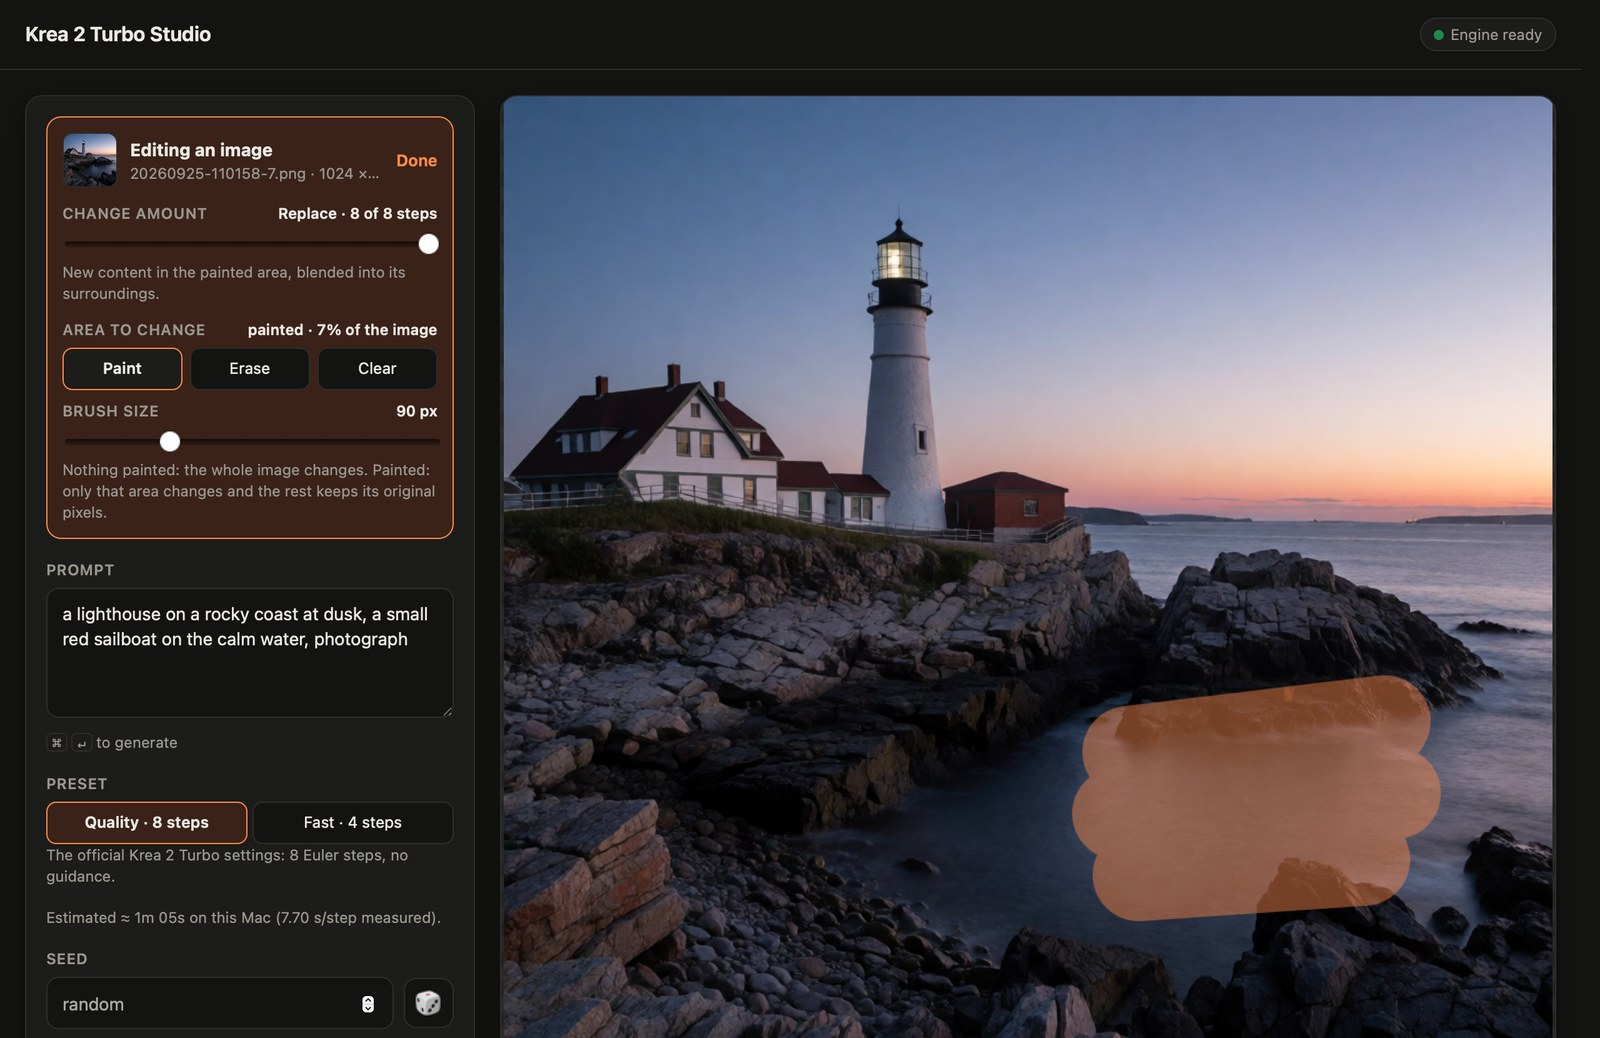
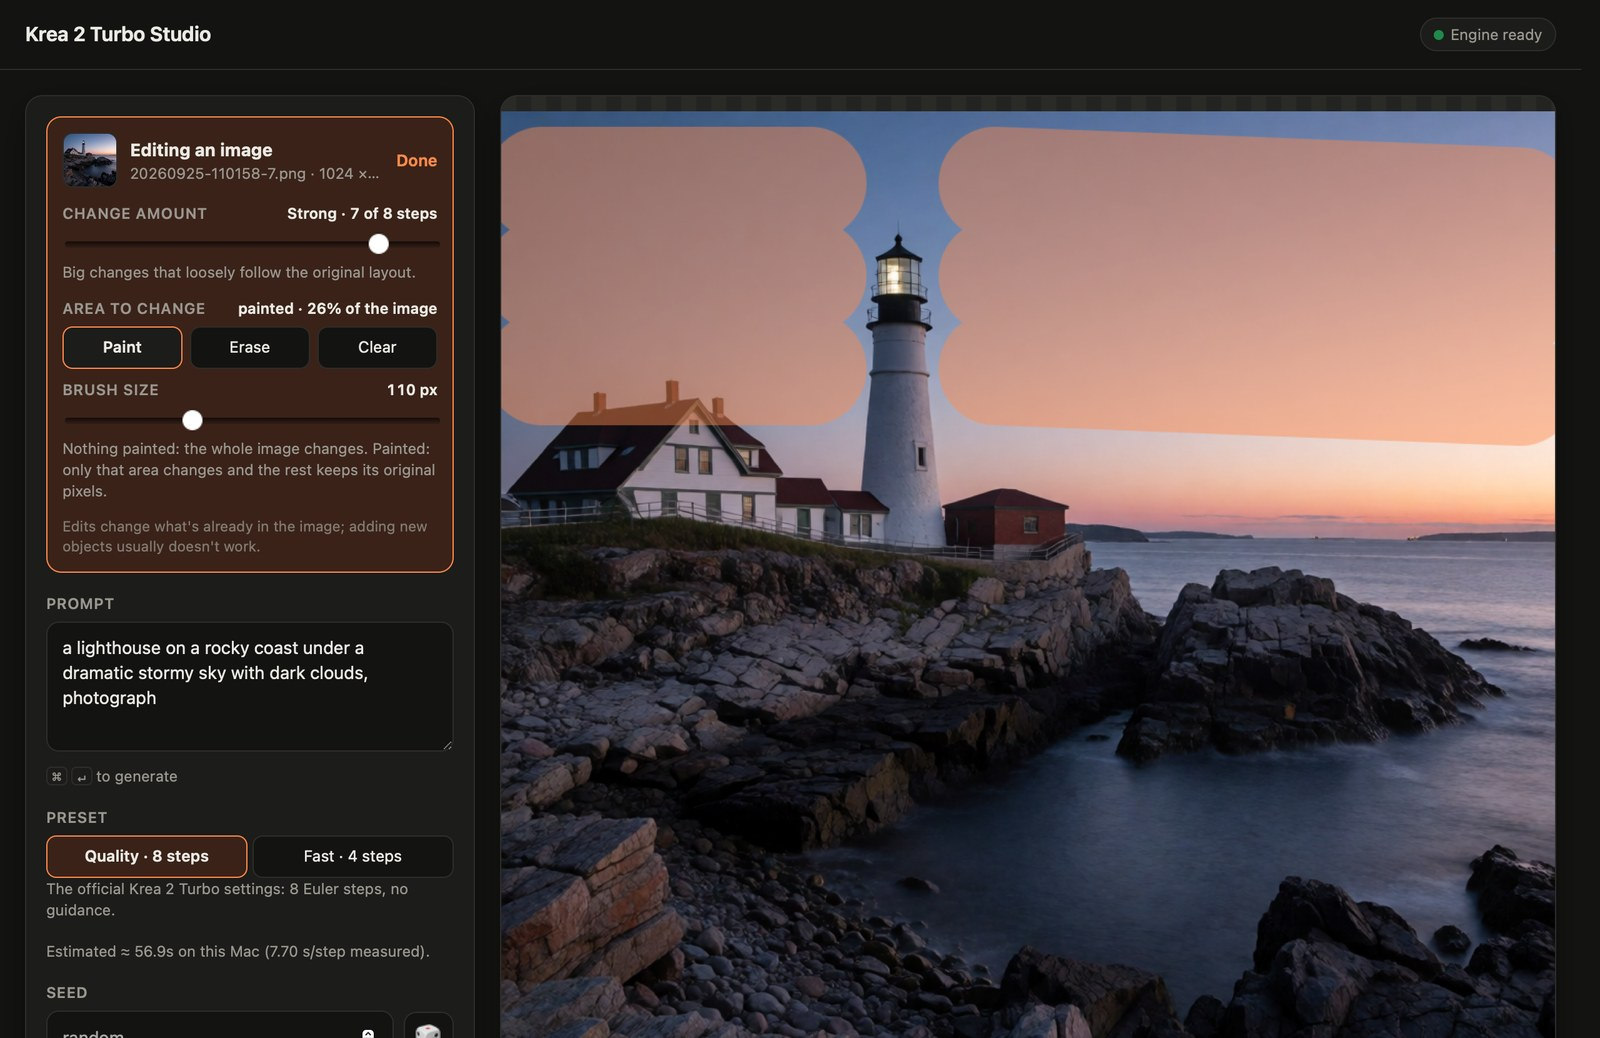
License (Krea 2 Community License, as Krea 2 Turbo); editing notes; clone URL
- LICENSE.md: this project uses the Krea 2 Community License Agreement, the same license as Krea 2 Turbo, with
  links to Krea's official text and Acceptable Use Policy.
- Edit panel: a subtle note that edits change what's already in the image and adding new objects usually doesn't
  work; the Replace hint no longer promises "new content". README says the same, and its editing screenshot
  now shows a sky repaint instead of adding a boat.
- README: clone from https://github.com/shinoss/krea_image.

diff --git a/ui/static/index.html b/ui/static/index.html
@@ -69,6 +69,7 @@ input[type=range] { width: 100%; accent-color: var(--accent); }
 .secondary { padding: 12px 16px; border: 1px solid var(--line); border-radius: 11px; background: var(--bg); color: var(--ink);
   font: inherit; cursor: pointer; }
 .hint { color: var(--muted); font-size: 12px; }
+.hint.subtle { font-size: 11.5px; opacity: .75; }
 .prep { opacity: 0; visibility: hidden; transition: opacity .3s, visibility .3s; }
 .prep.show { opacity: 1; visibility: visible; }
 details summary { cursor: pointer; font-size: 12px; font-weight: 600; color: var(--muted); text-transform: uppercase; letter-spacing: .04em; }
@@ -180,6 +181,7 @@ kbd { font: 11px ui-monospace, SFMono-Regular, Menlo, monospace; border: 1px sol
         <input type="range" id="brush" min="8" max="320" step="4">
         <div class="hint">Nothing painted: the whole image changes. Painted: only that area changes and the rest keeps its original pixels.</div>
       </div>
+      <div class="hint subtle">Edits change what's already in the image; adding new objects usually doesn't work.</div>
     </div>
 
     <div>
@@ -561,7 +563,7 @@ function renderAmount() {
   a.max = maskDirty ? n : n - 1;  // starting from pure noise only makes sense inside a painted area
   a.value = Math.min(Math.max(+a.value || 1, 1), +a.max);
   const k = startStep(), sg = sigmas(n)[k];
-  const [label, hint] = sg >= 0.999 ? ["Replace", "New content in the painted area, blended into its surroundings."]
+  const [label, hint] = sg >= 0.999 ? ["Replace", "Repaints the painted area from scratch, blended into its surroundings."]
     : sg < 0.4 ? ["Touch-up", "Refines details and texture; composition and colors stay."]
     : sg < 0.6 ? ["Light", "Keeps the composition and colors; changes details."]
     : sg < 0.8 ? ["Medium", "Keeps the layout; can change style, lighting and content."]

diff --git a/README.md b/README.md
@@ -71,6 +71,8 @@ Krea 2 has no instruction-based editing mode (it was released as a text-to-image
 re-imagining the image with your prompt, which is the image-to-image and inpainting approach every diffusion model
 supports.
 
+<sub>Edits change what's already in the image; adding new objects usually doesn't work.</sub>
+
 ### Watch it paint
 A live preview updates after every step, with a full-quality decode halfway through, so you can cancel early if the
 composition isn't what you wanted.
@@ -144,7 +146,7 @@ a pixel-identical image.
 
 ### Build from source
 ```bash
-git clone <repository-url> krea_metal && cd krea_metal
+git clone https://github.com/shinoss/krea_image && cd krea_image
 uv venv .venv --python 3.12
 uv pip install --python .venv/bin/python -r requirements.txt
 ```
@@ -264,5 +266,6 @@ run.sh      setup and launcher
   for the packaged checkpoint and tokenizer files.
 
 ## License
-The model weights are licensed separately under the Krea 2 Community License; see the
-[model page](https://huggingface.co/krea/Krea-2-Turbo). No license has been chosen for this repository's code yet.
+Licensed under the **Krea 2 Community License Agreement**, the same license as Krea 2 Turbo; see
+[LICENSE.md](LICENSE.md). Use of the model is also subject to Krea's
+[Acceptable Use Policy](https://www.krea.ai/krea-2-use-policy).

diff --git a/LICENSE.md b/LICENSE.md
@@ -1,0 +1,9 @@
+# License
+
+Krea 2 Turbo Studio is licensed under the **Krea 2 Community License Agreement**, the same license as
+Krea 2 Turbo.
+
+The full text of the agreement is published by Krea with the model:
+<https://huggingface.co/krea/Krea-2-Turbo/blob/main/LICENSE.pdf>
+
+Use of Krea 2 is also subject to Krea's Acceptable Use Policy: <https://www.krea.ai/krea-2-use-policy>
